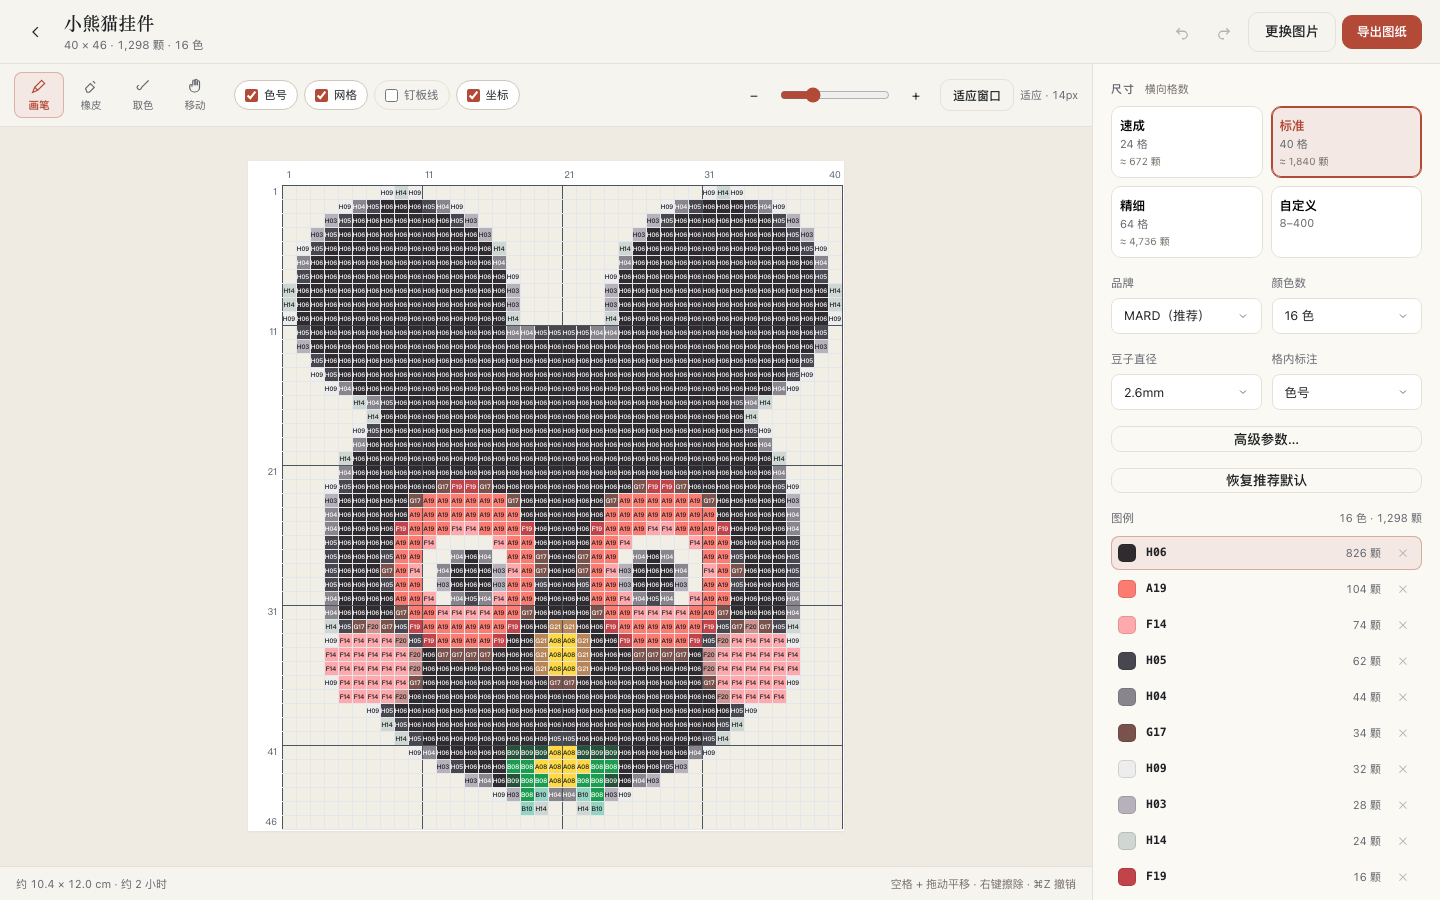
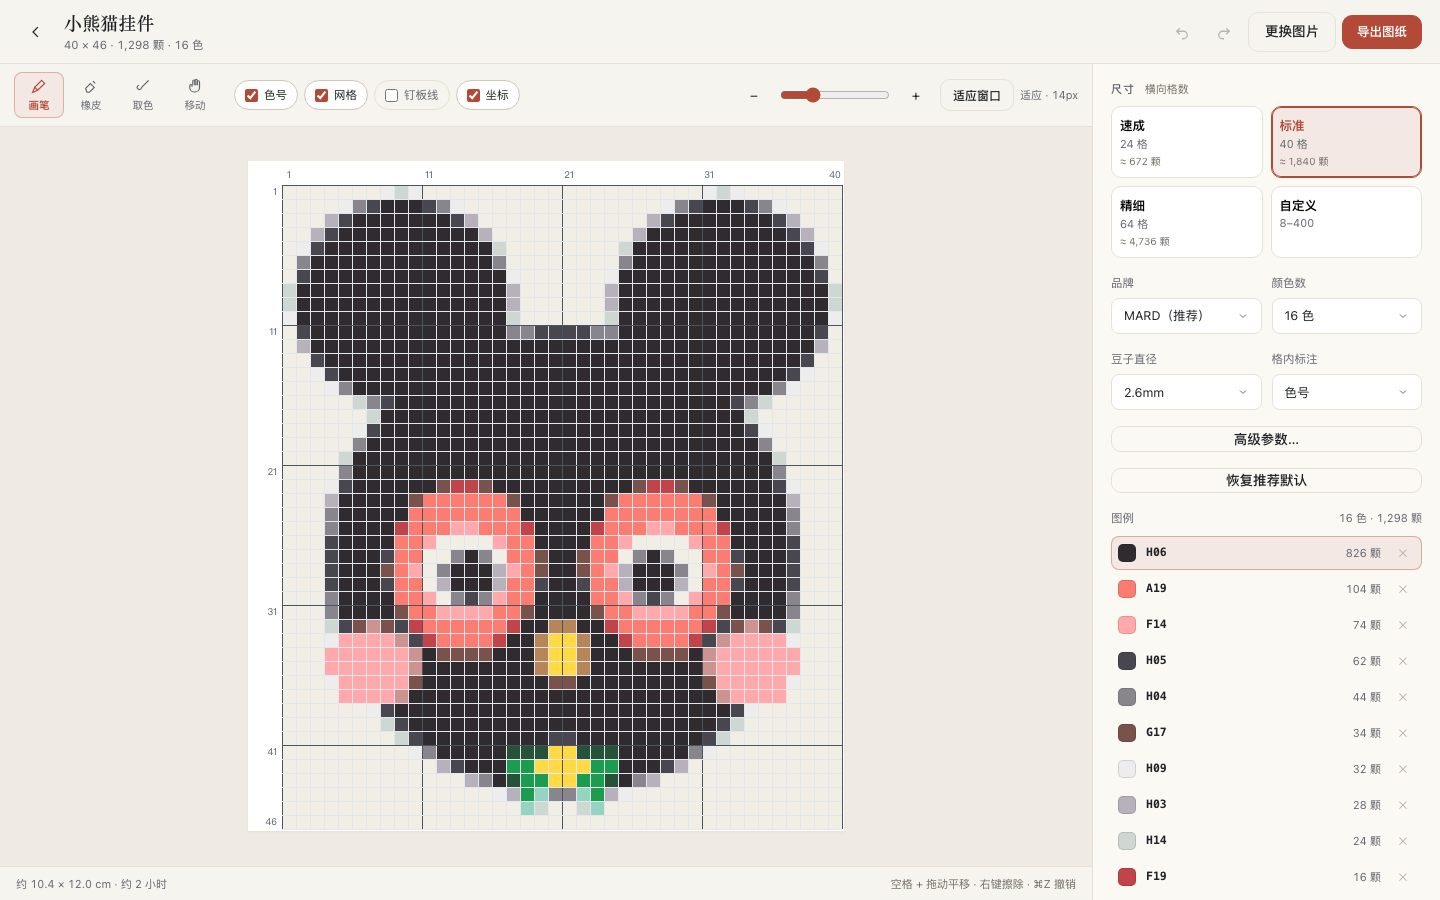
polish: 小格默认隐藏格内色号，页脚提示放大后显示

Changed region(s): [[0.1875, 0.2178, 0.5938, 0.9022]]

diff --git a/js/app.js b/js/app.js
@@ -498,7 +498,7 @@
       }
     }
 
-    if (S.display.code && S.opts.labelMode !== 'none' && cell >= 13) {
+    if (S.display.code && S.opts.labelMode !== 'none' && cell >= 16) {
       ctx.textAlign = 'center';
       ctx.textBaseline = 'middle';
       for (let y = 0; y < S.rows; y++) {
@@ -565,6 +565,16 @@
 
     layoutCanvas();
     updateZoomUI();
+    updateCanvasHint();
+  }
+
+  function updateCanvasHint() {
+    const hint = $('#canvasHint');
+    if (!hint) return;
+    const codesHidden = S.display.code && S.opts.labelMode !== 'none' && S.cell < 16;
+    hint.textContent = codesHidden
+      ? '放大到 16px/格以上显示色号 · 空格拖动 · 右键擦除'
+      : '空格 + 拖动平移 · 右键擦除 · ⌘Z 撤销';
   }
 
   const SYMBOLS = (function () {

diff --git a/index.html b/index.html
@@ -170,7 +170,7 @@
           </div>
 
           <div class="display-group" role="group" aria-label="显示选项">
-            <label class="chip-check"><input type="checkbox" data-display="code" checked><span>色号</span></label>
+            <label class="chip-check" title="格子放大到 16px 以上时显示色号"><input type="checkbox" data-display="code" checked><span>色号</span></label>
             <label class="chip-check"><input type="checkbox" data-display="grid" checked><span>网格</span></label>
             <label class="chip-check"><input type="checkbox" data-display="board"><span>钉板线</span></label>
             <label class="chip-check"><input type="checkbox" data-display="coords" checked><span>坐标</span></label>
